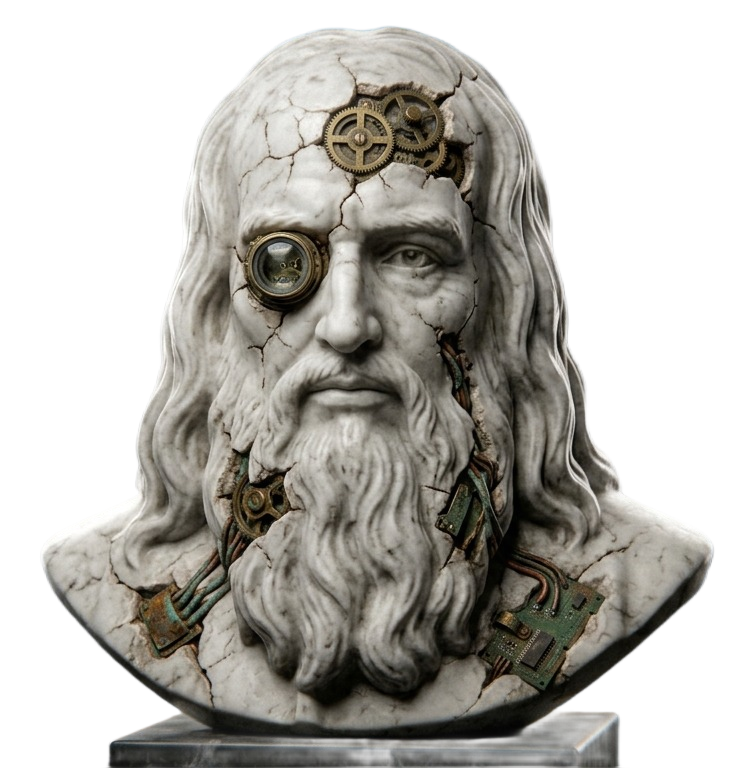
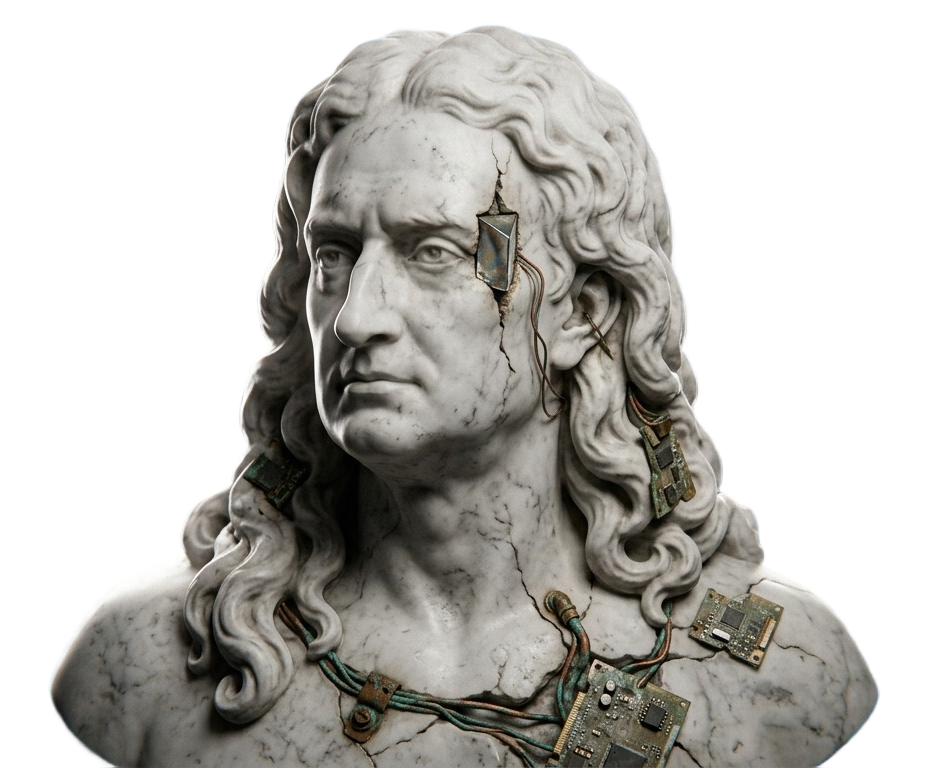
asd

diff --git a/index.html b/index.html
@@ -5,7 +5,44 @@
 <meta name="viewport" content="width=device-width, initial-scale=1.0">
 <title>Sidedoor Studio — Private Digital Division</title>
 <meta name="description" content="Sidedoor Studio is the private, invitation grade division of Sidedoor Digital. Websites, apps, commerce, booking and automation, built for operators who don't advertise.">
+<link rel="canonical" href="https://studio.getsidedoor.co.uk/">
+
+<!-- Favicon: drop final logo-derived files into /assets/ once ready, paths already wired -->
+<link rel="icon" type="image/x-icon" href="assets/favicon.ico">
+<link rel="icon" type="image/svg+xml" href="assets/favicon.svg">
+<link rel="apple-touch-icon" sizes="180x180" href="assets/apple-touch-icon.png">
+<link rel="manifest" href="assets/site.webmanifest">
+<meta name="theme-color" content="#0B0B0D">
+
+<!-- Open Graph -->
+<meta property="og:type" content="website">
+<meta property="og:site_name" content="Sidedoor Studio">
+<meta property="og:title" content="Sidedoor Studio — Private Digital Division">
+<meta property="og:description" content="Sidedoor Studio is the private, invitation grade division of Sidedoor Digital. Websites, apps, commerce, booking and automation, built for operators who don't advertise.">
+<meta property="og:url" content="https://studio.getsidedoor.co.uk/">
+<meta property="og:image" content="https://studio.getsidedoor.co.uk/assets/statues/philosopher-01.png">
+<meta property="og:image:width" content="1200">
+<meta property="og:image:height" content="630">
+
+<!-- Twitter Card -->
+<meta name="twitter:card" content="summary_large_image">
+<meta name="twitter:title" content="Sidedoor Studio — Private Digital Division">
+<meta name="twitter:description" content="Sidedoor Studio is the private, invitation grade division of Sidedoor Digital. Websites, apps, commerce, booking and automation, built for operators who don't advertise.">
+<meta name="twitter:image" content="https://studio.getsidedoor.co.uk/assets/statues/philosopher-01.png">
+
 <link rel="stylesheet" href="css/style.css">
+
+<script type="application/ld+json">
+{
+  "@context": "https://schema.org",
+  "@type": "ProfessionalService",
+  "name": "Sidedoor Studio",
+  "url": "https://studio.getsidedoor.co.uk/",
+  "description": "Sidedoor Studio is the private, invitation grade division of Sidedoor Digital. Websites, apps, commerce, booking and automation, built for operators who don't advertise.",
+  "areaServed": "GB",
+  "sameAs": []
+}
+</script>
 </head>
 <body>
 
@@ -55,7 +92,7 @@
         <div class="bust-ring"></div>
         <div class="bust-layer">
           <div class="bust-silhouette"></div>
-          <img class="bust-img" src="assets/statues/philosopher-01.png" alt="">
+          <img class="bust-img" src="assets/statues/philosopher-01.png" alt="Marble bust sculpture fractured to reveal brass circuitry beneath, symbolizing Sidedoor Studio's fusion of classical craft and modern technology">
           <div class="bust-circuit-overlay"></div>
           <span class="bust-placeholder-mark">Statue asset 01<br>Drop in backgroundless render</span>
         </div>
@@ -124,7 +161,7 @@
           <div class="bust-ring"></div>
           <div class="bust-layer">
             <div class="bust-silhouette"></div>
-            <img class="bust-img" src="assets/statues/philosopher-02.png" alt="">
+            <img class="bust-img" src="assets/statues/philosopher-02.png" alt="Marble bust with brass circuitry, preview image for the WATAG case study">
             <div class="bust-circuit-overlay"></div>
             <span class="bust-placeholder-mark">Statue asset 02</span>
           </div>
@@ -142,7 +179,7 @@
           <div class="bust-ring"></div>
           <div class="bust-layer">
             <div class="bust-silhouette"></div>
-            <img class="bust-img" src="assets/statues/philosopher-03.png" alt="">
+            <img class="bust-img" src="assets/statues/philosopher-03.png" alt="Marble bust with brass circuitry, preview image for the Candymonium case study">
             <div class="bust-circuit-overlay"></div>
             <span class="bust-placeholder-mark">Statue asset 03</span>
           </div>
@@ -160,7 +197,7 @@
           <div class="bust-ring"></div>
           <div class="bust-layer">
             <div class="bust-silhouette"></div>
-            <img class="bust-img" src="assets/statues/philosopher-04.png" alt="">
+            <img class="bust-img" src="assets/statues/philosopher-04.png" alt="Marble bust with brass circuitry, preview image for the Digz'n Lidz case study">
             <div class="bust-circuit-overlay"></div>
             <span class="bust-placeholder-mark">Statue asset 04</span>
           </div>

diff --git a/about.html b/about.html
@@ -5,6 +5,28 @@
 <meta name="viewport" content="width=device-width, initial-scale=1.0">
 <title>About — Sidedoor Studio</title>
 <meta name="description" content="Sidedoor Studio is the private division of Sidedoor Digital, built for a smaller and quieter client list.">
+<link rel="canonical" href="https://studio.getsidedoor.co.uk/about.html">
+
+<link rel="icon" type="image/x-icon" href="assets/favicon.ico">
+<link rel="icon" type="image/svg+xml" href="assets/favicon.svg">
+<link rel="apple-touch-icon" sizes="180x180" href="assets/apple-touch-icon.png">
+<link rel="manifest" href="assets/site.webmanifest">
+<meta name="theme-color" content="#0B0B0D">
+
+<meta property="og:type" content="website">
+<meta property="og:site_name" content="Sidedoor Studio">
+<meta property="og:title" content="About — Sidedoor Studio">
+<meta property="og:description" content="Sidedoor Studio is the private division of Sidedoor Digital, built for a smaller and quieter client list.">
+<meta property="og:url" content="https://studio.getsidedoor.co.uk/about.html">
+<meta property="og:image" content="https://studio.getsidedoor.co.uk/assets/statues/philosopher-09.png">
+<meta property="og:image:width" content="1200">
+<meta property="og:image:height" content="630">
+
+<meta name="twitter:card" content="summary_large_image">
+<meta name="twitter:title" content="About — Sidedoor Studio">
+<meta name="twitter:description" content="Sidedoor Studio is the private division of Sidedoor Digital, built for a smaller and quieter client list.">
+<meta name="twitter:image" content="https://studio.getsidedoor.co.uk/assets/statues/philosopher-09.png">
+
 <link rel="stylesheet" href="css/style.css">
 </head>
 <body>
@@ -53,7 +75,7 @@
         <div class="bust-ring"></div>
         <div class="bust-layer">
           <div class="bust-silhouette"></div>
-          <img class="bust-img" src="assets/statues/philosopher-09.png" alt="">
+          <img class="bust-img" src="assets/statues/philosopher-09.png" alt="Marble bust fractured to reveal brass circuitry, illustrating the philosophy behind Sidedoor Studio">
           <div class="bust-circuit-overlay"></div>
           <span class="bust-placeholder-mark">Statue asset 09</span>
         </div>
@@ -121,7 +143,7 @@
     <figure class="bust-fig" data-mode="scroll" data-img-loaded="false">
       <div class="bust-layer">
         <div class="bust-silhouette"></div>
-        <img class="bust-img" src="assets/statues/philosopher-12.png" alt="">
+        <img class="bust-img" src="assets/statues/philosopher-12.png" alt="Marble bust with brass circuitry, roster gallery figure 1 of 4">
         <div class="bust-circuit-overlay"></div>
         <span class="bust-placeholder-mark">Statue asset 12</span>
       </div>
@@ -129,7 +151,7 @@
     <figure class="bust-fig" data-mode="scroll" data-img-loaded="false">
       <div class="bust-layer">
         <div class="bust-silhouette"></div>
-        <img class="bust-img" src="assets/statues/philosopher-13.png" alt="">
+        <img class="bust-img" src="assets/statues/philosopher-13.png" alt="Marble bust with brass circuitry, roster gallery figure 2 of 4">
         <div class="bust-circuit-overlay"></div>
         <span class="bust-placeholder-mark">Statue asset 13</span>
       </div>
@@ -137,7 +159,7 @@
     <figure class="bust-fig" data-mode="scroll" data-img-loaded="false">
       <div class="bust-layer">
         <div class="bust-silhouette"></div>
-        <img class="bust-img" src="assets/statues/philosopher-14.png" alt="">
+        <img class="bust-img" src="assets/statues/philosopher-14.png" alt="Marble bust with brass circuitry, roster gallery figure 3 of 4">
         <div class="bust-circuit-overlay"></div>
         <span class="bust-placeholder-mark">Statue asset 14</span>
       </div>
@@ -145,7 +167,7 @@
     <figure class="bust-fig" data-mode="scroll" data-img-loaded="false">
       <div class="bust-layer">
         <div class="bust-silhouette"></div>
-        <img class="bust-img" src="assets/statues/philosopher-15.png" alt="">
+        <img class="bust-img" src="assets/statues/philosopher-15.png" alt="Marble bust with brass circuitry, roster gallery figure 4 of 4">
         <div class="bust-circuit-overlay"></div>
         <span class="bust-placeholder-mark">Statue asset 15</span>
       </div>

diff --git a/work.html b/work.html
@@ -5,6 +5,28 @@
 <meta name="viewport" content="width=device-width, initial-scale=1.0">
 <title>Work — Sidedoor Studio</title>
 <meta name="description" content="Selected work from Sidedoor Studio, the private division of Sidedoor Digital.">
+<link rel="canonical" href="https://studio.getsidedoor.co.uk/work.html">
+
+<link rel="icon" type="image/x-icon" href="assets/favicon.ico">
+<link rel="icon" type="image/svg+xml" href="assets/favicon.svg">
+<link rel="apple-touch-icon" sizes="180x180" href="assets/apple-touch-icon.png">
+<link rel="manifest" href="assets/site.webmanifest">
+<meta name="theme-color" content="#0B0B0D">
+
+<meta property="og:type" content="website">
+<meta property="og:site_name" content="Sidedoor Studio">
+<meta property="og:title" content="Work — Sidedoor Studio">
+<meta property="og:description" content="Selected work from Sidedoor Studio, the private division of Sidedoor Digital.">
+<meta property="og:url" content="https://studio.getsidedoor.co.uk/work.html">
+<meta property="og:image" content="https://studio.getsidedoor.co.uk/assets/statues/philosopher-05.png">
+<meta property="og:image:width" content="1200">
+<meta property="og:image:height" content="630">
+
+<meta name="twitter:card" content="summary_large_image">
+<meta name="twitter:title" content="Work — Sidedoor Studio">
+<meta name="twitter:description" content="Selected work from Sidedoor Studio, the private division of Sidedoor Digital.">
+<meta name="twitter:image" content="https://studio.getsidedoor.co.uk/assets/statues/philosopher-05.png">
+
 <link rel="stylesheet" href="css/style.css">
 </head>
 <body>
@@ -53,7 +75,7 @@
         <div class="bust-ring"></div>
         <div class="bust-layer">
           <div class="bust-silhouette"></div>
-          <img class="bust-img" src="assets/statues/philosopher-05.png" alt="">
+          <img class="bust-img" src="assets/statues/philosopher-05.png" alt="Marble bust with brass circuitry, header image for the WATAG case study">
           <div class="bust-circuit-overlay"></div>
           <span class="bust-placeholder-mark">Statue asset 05<br>WATAG</span>
         </div>
@@ -78,7 +100,7 @@
           <div class="bust-ring"></div>
           <div class="bust-layer">
             <div class="bust-silhouette"></div>
-          <img class="bust-img" src="assets/statues/philosopher-06.png" alt="">
+          <img class="bust-img" src="assets/statues/philosopher-06.png" alt="Marble bust with brass circuitry, header image for the Candymonium case study">
             <div class="bust-circuit-overlay"></div>
             <span class="bust-placeholder-mark">Statue asset 06<br>Candymonium</span>
           </div>
@@ -103,7 +125,7 @@
         <div class="bust-ring"></div>
         <div class="bust-layer">
           <div class="bust-silhouette"></div>
-          <img class="bust-img" src="assets/statues/philosopher-07.png" alt="">
+          <img class="bust-img" src="assets/statues/philosopher-07.png" alt="Marble bust with brass circuitry, header image for the Digz'n Lidz case study">
           <div class="bust-circuit-overlay"></div>
           <span class="bust-placeholder-mark">Statue asset 07<br>Digz'n Lidz</span>
         </div>
@@ -128,7 +150,7 @@
           <div class="bust-ring"></div>
           <div class="bust-layer">
             <div class="bust-silhouette"></div>
-          <img class="bust-img" src="assets/statues/philosopher-08.png" alt="">
+          <img class="bust-img" src="assets/statues/philosopher-08.png" alt="Marble bust with brass circuitry, header image for the Sidedoor Digital case study">
             <div class="bust-circuit-overlay"></div>
             <span class="bust-placeholder-mark">Statue asset 08<br>Sidedoor Digital</span>
           </div>

diff --git a/services.html b/services.html
@@ -5,6 +5,28 @@
 <meta name="viewport" content="width=device-width, initial-scale=1.0">
 <title>Services — Sidedoor Studio</title>
 <meta name="description" content="Websites, apps, e-commerce, POS, booking, QR ordering, automation and systems integration, built by Sidedoor Studio.">
+<link rel="canonical" href="https://studio.getsidedoor.co.uk/services.html">
+
+<link rel="icon" type="image/x-icon" href="assets/favicon.ico">
+<link rel="icon" type="image/svg+xml" href="assets/favicon.svg">
+<link rel="apple-touch-icon" sizes="180x180" href="assets/apple-touch-icon.png">
+<link rel="manifest" href="assets/site.webmanifest">
+<meta name="theme-color" content="#0B0B0D">
+
+<meta property="og:type" content="website">
+<meta property="og:site_name" content="Sidedoor Studio">
+<meta property="og:title" content="Services — Sidedoor Studio">
+<meta property="og:description" content="Websites, apps, e-commerce, POS, booking, QR ordering, automation and systems integration, built by Sidedoor Studio.">
+<meta property="og:url" content="https://studio.getsidedoor.co.uk/services.html">
+<meta property="og:image" content="https://studio.getsidedoor.co.uk/assets/statues/philosopher-10.png">
+<meta property="og:image:width" content="1200">
+<meta property="og:image:height" content="630">
+
+<meta name="twitter:card" content="summary_large_image">
+<meta name="twitter:title" content="Services — Sidedoor Studio">
+<meta name="twitter:description" content="Websites, apps, e-commerce, POS, booking, QR ordering, automation and systems integration, built by Sidedoor Studio.">
+<meta name="twitter:image" content="https://studio.getsidedoor.co.uk/assets/statues/philosopher-10.png">
+
 <link rel="stylesheet" href="css/style.css">
 </head>
 <body>
@@ -52,7 +74,7 @@
       <div class="bust-ring"></div>
       <div class="bust-layer">
         <div class="bust-silhouette"></div>
-        <img class="bust-img" src="assets/statues/philosopher-10.png" alt="">
+        <img class="bust-img" src="assets/statues/philosopher-10.png" alt="Marble bust with brass circuitry, introductory figure above the Sidedoor Studio services grid">
         <div class="bust-circuit-overlay"></div>
         <span class="bust-placeholder-mark">Statue asset 10</span>
       </div>
@@ -143,7 +165,7 @@
       <div class="bust-ring"></div>
       <div class="bust-layer">
         <div class="bust-silhouette"></div>
-        <img class="bust-img" src="assets/statues/philosopher-11.png" alt="">
+        <img class="bust-img" src="assets/statues/philosopher-11.png" alt="Marble bust with brass circuitry, standalone figure below the Sidedoor Studio process steps">
         <div class="bust-circuit-overlay"></div>
         <span class="bust-placeholder-mark">Statue asset 11</span>
       </div>

diff --git a/contact.html b/contact.html
@@ -5,6 +5,28 @@
 <meta name="viewport" content="width=device-width, initial-scale=1.0">
 <title>Contact — Sidedoor Studio</title>
 <meta name="description" content="Request access to Sidedoor Studio, the private division of Sidedoor Digital.">
+<link rel="canonical" href="https://studio.getsidedoor.co.uk/contact.html">
+
+<link rel="icon" type="image/x-icon" href="assets/favicon.ico">
+<link rel="icon" type="image/svg+xml" href="assets/favicon.svg">
+<link rel="apple-touch-icon" sizes="180x180" href="assets/apple-touch-icon.png">
+<link rel="manifest" href="assets/site.webmanifest">
+<meta name="theme-color" content="#0B0B0D">
+
+<meta property="og:type" content="website">
+<meta property="og:site_name" content="Sidedoor Studio">
+<meta property="og:title" content="Contact — Sidedoor Studio">
+<meta property="og:description" content="Request access to Sidedoor Studio, the private division of Sidedoor Digital.">
+<meta property="og:url" content="https://studio.getsidedoor.co.uk/contact.html">
+<meta property="og:image" content="https://studio.getsidedoor.co.uk/assets/statues/philosopher-01.png">
+<meta property="og:image:width" content="1200">
+<meta property="og:image:height" content="630">
+
+<meta name="twitter:card" content="summary_large_image">
+<meta name="twitter:title" content="Contact — Sidedoor Studio">
+<meta name="twitter:description" content="Request access to Sidedoor Studio, the private division of Sidedoor Digital.">
+<meta name="twitter:image" content="https://studio.getsidedoor.co.uk/assets/statues/philosopher-01.png">
+
 <link rel="stylesheet" href="css/style.css">
 </head>
 <body>
